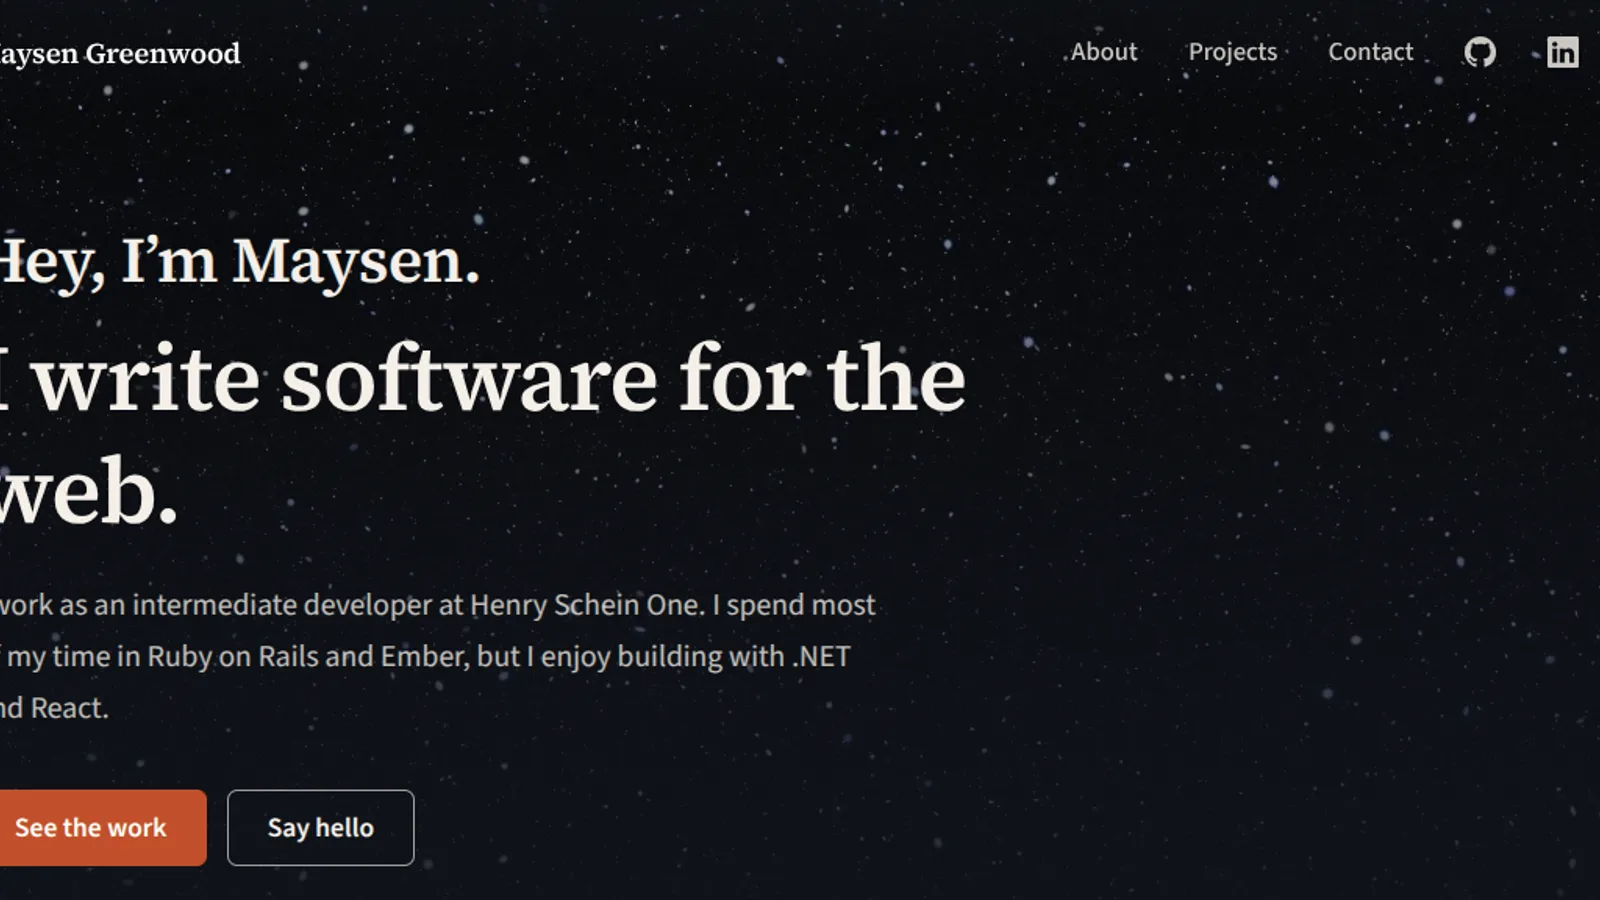
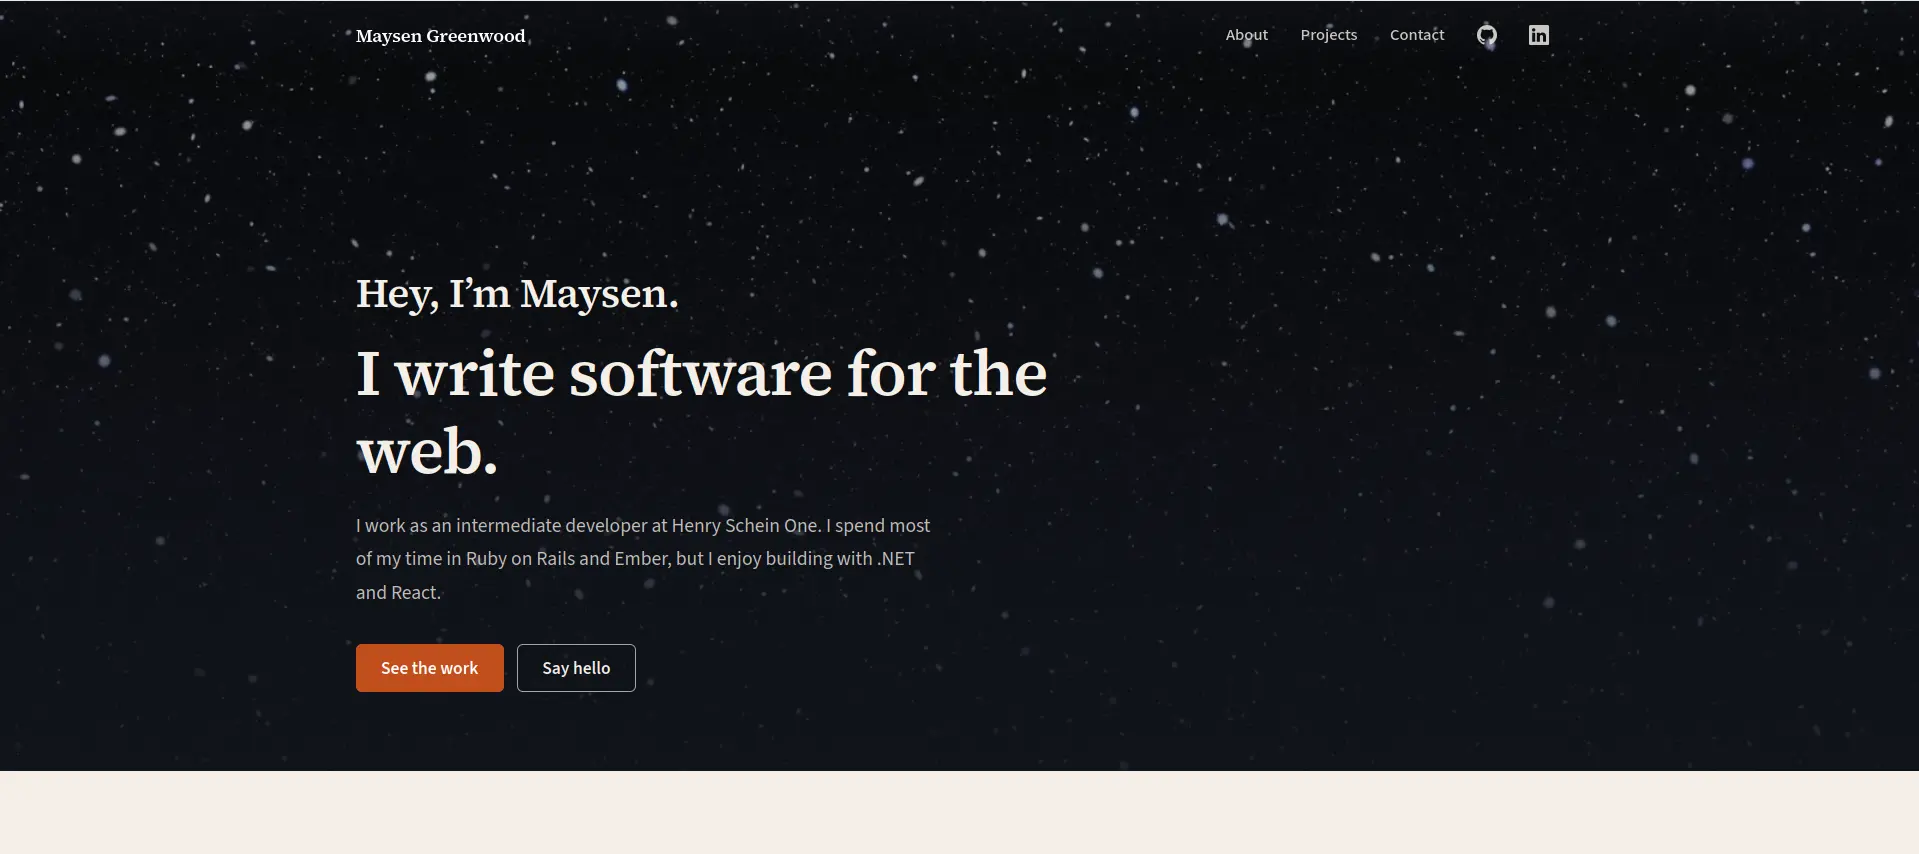
Remove r2.dev URL to use local asset for hero image

diff --git a/src/styles/global.css b/src/styles/global.css
@@ -207,7 +207,7 @@ img {
       rgba(18, 21, 28, 0.82) 70%,
       rgba(18, 21, 28, 0.94) 100%
     ),
-    url('https://pub-47aa65e55f4d4568bef28000980da8af.r2.dev/Maysen-portfolio-website-hero-image.webp');
+    url('/assets/images/hero-image.webp');
   background-size: cover;
   background-position: center;
   padding: 8rem 0 4.5rem;
